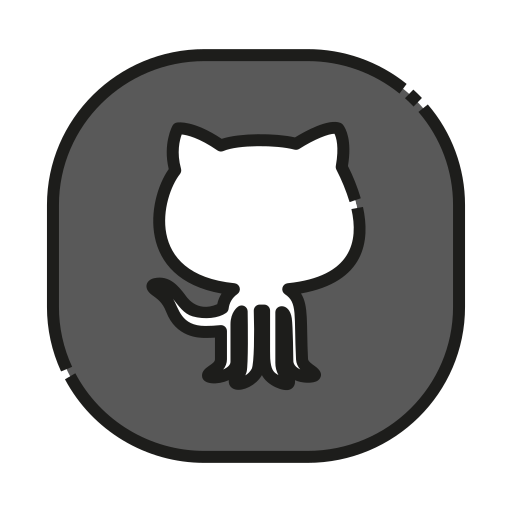
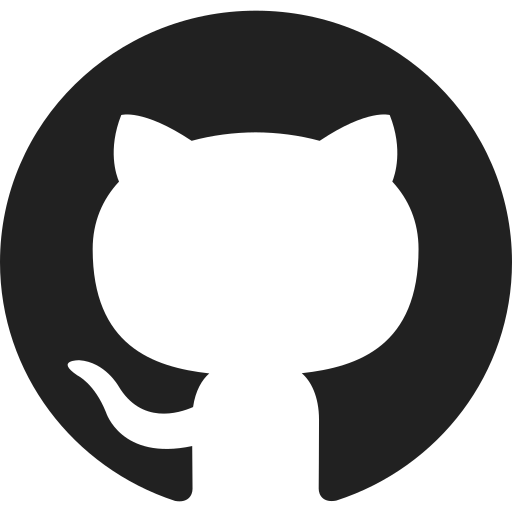
Portfólio Caroline Fernandes

diff --git a/src/pages/Projects.js b/src/pages/Projects.js
@@ -19,29 +19,29 @@ function Projects(){
             <section className={styleProjects.section}>
                 <div className={styleProjects.gif}>
                     <Image src={projectSolarSystem} alt='projeto solar system'/>
-                    <Link href='https://github.com/carolinefcosta/project-solar-system' >GitHub</Link>
+                    <Link href='https://github.com/carolinefcosta/project-solar-system' className={styleProjects.link}>GitHub</Link>
                 </div>
                 <div className={styleProjects.gif}>
                     <Image src={projectTrybetunes} alt='projeto trybetunes'/>
-                    <Link href='https://github.com/carolinefcosta/project-trybetunes' >GitHub</Link>
+                    <Link href='https://github.com/carolinefcosta/project-trybetunes' className={styleProjects.link}>GitHub</Link>
                 </div>
                 <div className={styleProjects.gif}>
                     <Image src={projectOnlineStore} alt='projeto online store'/>
-                    <Link href='https://github.com/carolinefcosta/project-frontend-online-store' >GitHub</Link>
+                    <Link href='https://github.com/carolinefcosta/project-frontend-online-store' className={styleProjects.link}>GitHub</Link>
                 </div>       
             </section>
             <section className={styleProjects.section}>
                 <div className={styleProjects.gif}>
                     <Image src={projectTrybewallet} alt='projeto trybewallet'/>
-                    <Link href='https://github.com/carolinefcosta/project-trybewallet' >GitHub</Link>
+                    <Link href='https://github.com/carolinefcosta/project-trybewallet' className={styleProjects.link}>GitHub</Link>
                 </div>
                 <div className={styleProjects.gif}>
                     <Image src={projectTrivia} alt='projeto trivia'/>
-                    <Link href='https://github.com/carolinefcosta/project-trivia' >GitHub</Link>
+                    <Link href='https://github.com/carolinefcosta/project-trivia' className={styleProjects.link}>GitHub</Link>
                 </div>
                 <div className={styleProjects.gif}>
                     <Image src={projectStarwars} alt='projeto starwars'/>
-                    <Link href='https://github.com/carolinefcosta/project-starwars-planets-search' >GitHub</Link>
+                    <Link href='https://github.com/carolinefcosta/project-starwars-planets-search' className={styleProjects.link}>GitHub</Link>
                 </div>  
             </section>
         </div>

diff --git a/src/pages/index.js b/src/pages/index.js
@@ -1,12 +1,11 @@
-import React, { useEffect, useState } from 'react';
+import React from 'react';
 import Header from '../components/Header';
 import laptop from '../images/laptop.gif';
 import Image from 'next/image';
 import styleHome from '../components/Home.module.css';
-import Swal from 'sweetalert2';
+// import Swal from 'sweetalert2';
 import Bot from '@/components/Bot';
-import iconLinkedin from '../images/linkedin.png';
-import iconGit from '../images/github.png';
+import Contact from '@/components/Contact';
 
 export default function Home() {
   // let [name, setName] = useState('');
@@ -69,23 +68,18 @@ export default function Home() {
   // }, [])
 
     return (
-        <div className={styleHome.main}>
+      <main className={styleHome.main}>
+        <div className={styleHome.homeDiv}>
           <Header />   
           <div >
             <p className={styleHome.txt}>Olá! Seja bem-vindo(a) ao meu Portfólio!</p>
             <p className={styleHome.txt}>Sou Caroline Fernandes,</p>
             <p className={styleHome.txt}>Desenvolvedora Web Full Stack.</p>
           </div>
-          {/* <div className={styleHome.div}>
-            <a href="https://github.com/carolinefcosta" className={styleHome.git}>
-              <Image src={iconGit} alt='icon-linkedIn' />
-            </a>
-            <a href="https://www.linkedin.com/in/carolinefernandescosta/" className={styleHome.linkedin}>
-              <Image src={iconLinkedin} alt='icon-linkedIn' />
-            </a>
-          </div> */}
           <Image src={laptop} alt='gif-animado' className={styleHome.img}/>
-          <Bot />
         </div>
+        <Bot />
+        <Contact />
+      </main>
     ) 
 }

diff --git a/src/components/Projects.module.css b/src/components/Projects.module.css
@@ -4,7 +4,7 @@
   display: flex;
   flex-wrap: wrap;
   font-family: 'Sofia';
-  background-color: white;
+  background-color: rgba(0, 0, 0, 0.863);
   height: 100%;
   align-items: center;
   justify-content: center;
@@ -13,6 +13,13 @@
 .h1 {
   margin-top: 25px;
   font-size: 25px;
+  background: -webkit-linear-gradient(left, #97d9d9, #ec55b7);
+  background: -moz-linear-gradient(left, #97d9d9, #ec55b7);
+  background: -ms-linear-gradient(left, #97d9d9, #ec55b7);
+  background: -o-linear-gradient(left, #97d9d9, #ec55b7);
+  background: linear-gradient(to right, #97d9d9, #ec55b7);
+  border-radius: 12px;
+  padding: 5px;
 }
 
 .section {
@@ -25,4 +32,14 @@
   margin: 15px;
   height: 250px;
   width: 30%;
+}
+
+.link {
+  background: -webkit-linear-gradient(left, #97d9d9, #ec55b7);
+  background: -moz-linear-gradient(left, #97d9d9, #ec55b7);
+  background: -ms-linear-gradient(left, #97d9d9, #ec55b7);
+  background: -o-linear-gradient(left, #97d9d9, #ec55b7);
+  background: linear-gradient(to right, #97d9d9, #ec55b7);
+  border-radius: 20px;
+  padding: 5px;
 }

diff --git a/src/components/About.module.css b/src/components/About.module.css
@@ -6,20 +6,20 @@
   text-align: center;
   justify-content: space-around;
   font-family: 'Sofia';
-  background-color: white;
-  /* align-items: center; */
+  background-color: rgba(0, 0, 0, 0.863);
 }
 
 .txt {
   display: flex;
   flex-wrap: wrap;
   align-items: center;
-  font-size: 18px;
-  background: -webkit-linear-gradient(left, #97d9d9, #ec55b7);
+  font-size: 20px;
+  color: white;
+  /* background: -webkit-linear-gradient(left, #97d9d9, #ec55b7);
   background: -moz-linear-gradient(left, #97d9d9, #ec55b7);
   background: -ms-linear-gradient(left, #97d9d9, #ec55b7);
   background: -o-linear-gradient(left, #97d9d9, #ec55b7);
-  background: linear-gradient(to right, #97d9d9, #ec55b7);
+  background: linear-gradient(to right, #97d9d9, #ec55b7); */
   border-radius: 150px;
   margin-top: 10px;
   padding: 5px;

diff --git a/src/pages/Skills.js b/src/pages/Skills.js
@@ -60,15 +60,15 @@ function Skills(){
                 </div>
                 <div>
                     <Image src={mysql} alt='mysql' className={styleSkill.img}/>
-                    <p>MySQL</p>
+                    <p className={styleSkill.paragrafh}>MySQL</p>
                 </div>
                 <div>
                     <Image src={sequelize} alt='sequelize' className={styleSkill.img}/>
-                    <p>Sequelize ORM</p>
+                    <p className={styleSkill.paragrafh}>Sequelize ORM</p>
                 </div>
                 <div>
                     <Image src={github} alt='github' className={styleSkill.img}/>
-                    <p>GitHub</p>
+                    <p className={styleSkill.paragrafh}>GitHub</p>
                 </div>
             </section>   
         </div>

diff --git a/src/components/Contact.js b/src/components/Contact.js
@@ -1,0 +1,22 @@
+import Image from 'next/image';
+import React from 'react';
+import iconGit from '../images/icons8-github-64.png';
+import iconLinkedin from '../images/icons8-linkedin-64.png';
+import styleContact from '../components/Contact.module.css';
+import Header from '@/components/Header';
+import Bot from '@/components/Bot';
+
+function Contact() {
+  return(
+    <div className={styleContact.main}>
+      <a href="https://github.com/carolinefcosta" >
+        <Image src={iconGit} alt='icon-linkedIn' />
+      </a>
+      <a href="https://www.linkedin.com/in/carolinefernandescosta/" className={styleContact.linkedin}>
+        <Image src={iconLinkedin} alt='icon-linkedIn' />
+      </a>
+    </div>
+  )
+}
+
+export default Contact;

diff --git a/src/components/Header.module.css b/src/components/Header.module.css
@@ -14,11 +14,6 @@
   background: -ms-linear-gradient(left, #97d9d9, #ec55b7);
   background: -o-linear-gradient(left, #97d9d9, #ec55b7);
   background: linear-gradient(to right, #97d9d9, #ec55b7);
-  /* background: -webkit-linear-gradient(left, #ec55b7, #7eedf4);
-  background: -moz-linear-gradient(left, #ec55b7, #7eedf4);
-  background: -ms-linear-gradient(left, #ec55b7, #7eedf4);
-  background: -o-linear-gradient(left, #ec55b7, #7eedf4);
-  background: linear-gradient(to right, #ec55b7, #7eedf4); */
 }
 
 .h1 {
@@ -28,6 +23,8 @@
 
 .h3 {
   margin-top: 0;
+  text-align: start;
+  /* text-align: center; */
 }
 
 .link {

diff --git a/src/components/Contact.module.css b/src/components/Contact.module.css
@@ -1,29 +1,6 @@
-@import url('https://fonts.googleapis.com/css?family=Sofia');
-
 .main {
   display: flex;
-  flex-wrap: wrap;
-  text-align: center;
-  justify-content: space-around;
-  font-family: 'Sofia';
-  background-color: white;
-  align-items: center;
-}
-
-.git{
-  display: flex;
-  flex-wrap: wrap;
   justify-content: center;
-  align-items: center;
-  cursor: pointer;
-  width: 12vh;
-}
-
-.linkedin {
-  display: flex;
-  flex-wrap: wrap;
-  justify-content: center;
-  align-items: center;
-  cursor: pointer;
-  width: 11vh;
+  margin-top: -120px;
+  margin-left: 220px;
 }

diff --git a/src/components/Home.module.css b/src/components/Home.module.css
@@ -3,12 +3,18 @@
 .main {
   display: flex;
   flex-wrap: wrap;
+}
+
+.homeDiv {
+  display: flex;
+  flex-wrap: wrap;
   text-align: center;
   justify-content: space-around;
   font-family: 'Sofia';
-  background-color: white;
+  background-color: rgba(0, 0, 0, 0.863);
   align-items: center;
   height: 100vh;
+  width: 100%;
 }
 
 .txt {
@@ -36,7 +42,7 @@
   height: 47%;
   width: 20%;
   margin: 10%;
-  border-radius: 80px;
+  border-radius: 20px;
 }
 
 .div{

diff --git a/src/components/Header.js b/src/components/Header.js
@@ -13,7 +13,7 @@ function Header(){
         <Link href='/About' className={styleHeader.link}>Sobre</Link>
         <Link href='/Projects' className={styleHeader.link} >Projetos</Link>
         <Link href='/Skills' className={styleHeader.link} >Skills</Link>
-        <Link href='/Contact' className={styleHeader.link} >Contato</Link>
+        {/* <Link href='/Contact' className={styleHeader.link} >Contato</Link> */}
       </main>
     )   
 }

diff --git a/src/components/Skills.module.css b/src/components/Skills.module.css
@@ -4,8 +4,9 @@
   display: flex;
   flex-wrap: wrap;
   font-family: 'Sofia';
-  background-color: white;
+  background-color: rgba(0, 0, 0, 0.863);
   justify-content: center;
+  color: white;
 }
 
 .h1 {
@@ -25,4 +26,8 @@
   margin-bottom: 20px;
   height: 120px;
   width: 120px;
+}
+
+.paragrafh {
+  margin-bottom: 15px;
 }
